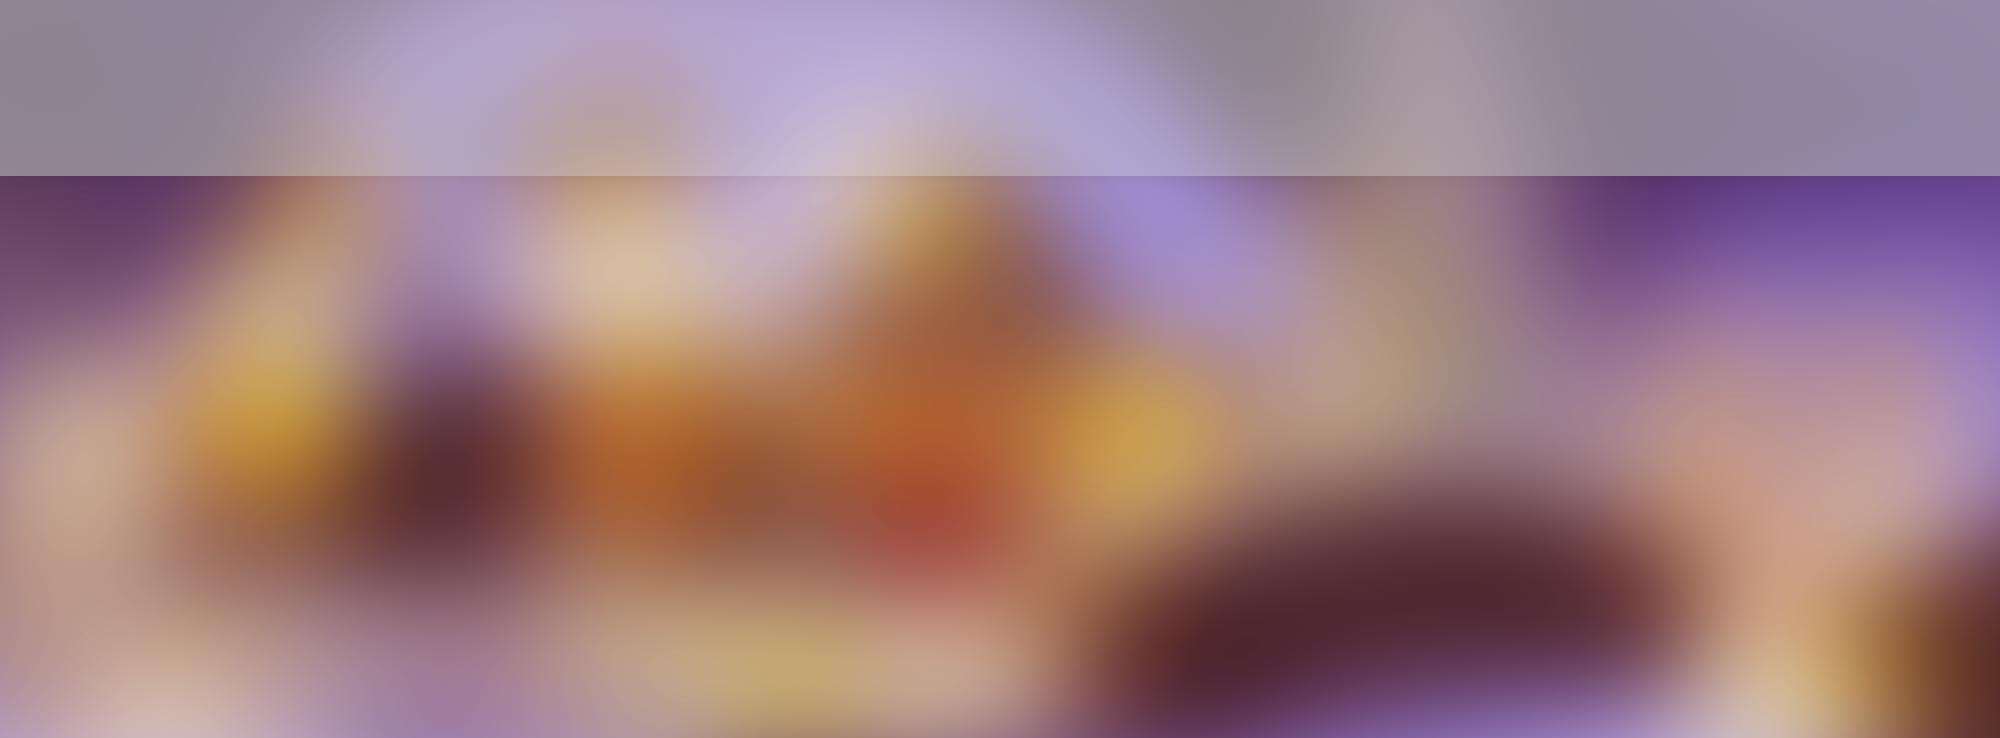
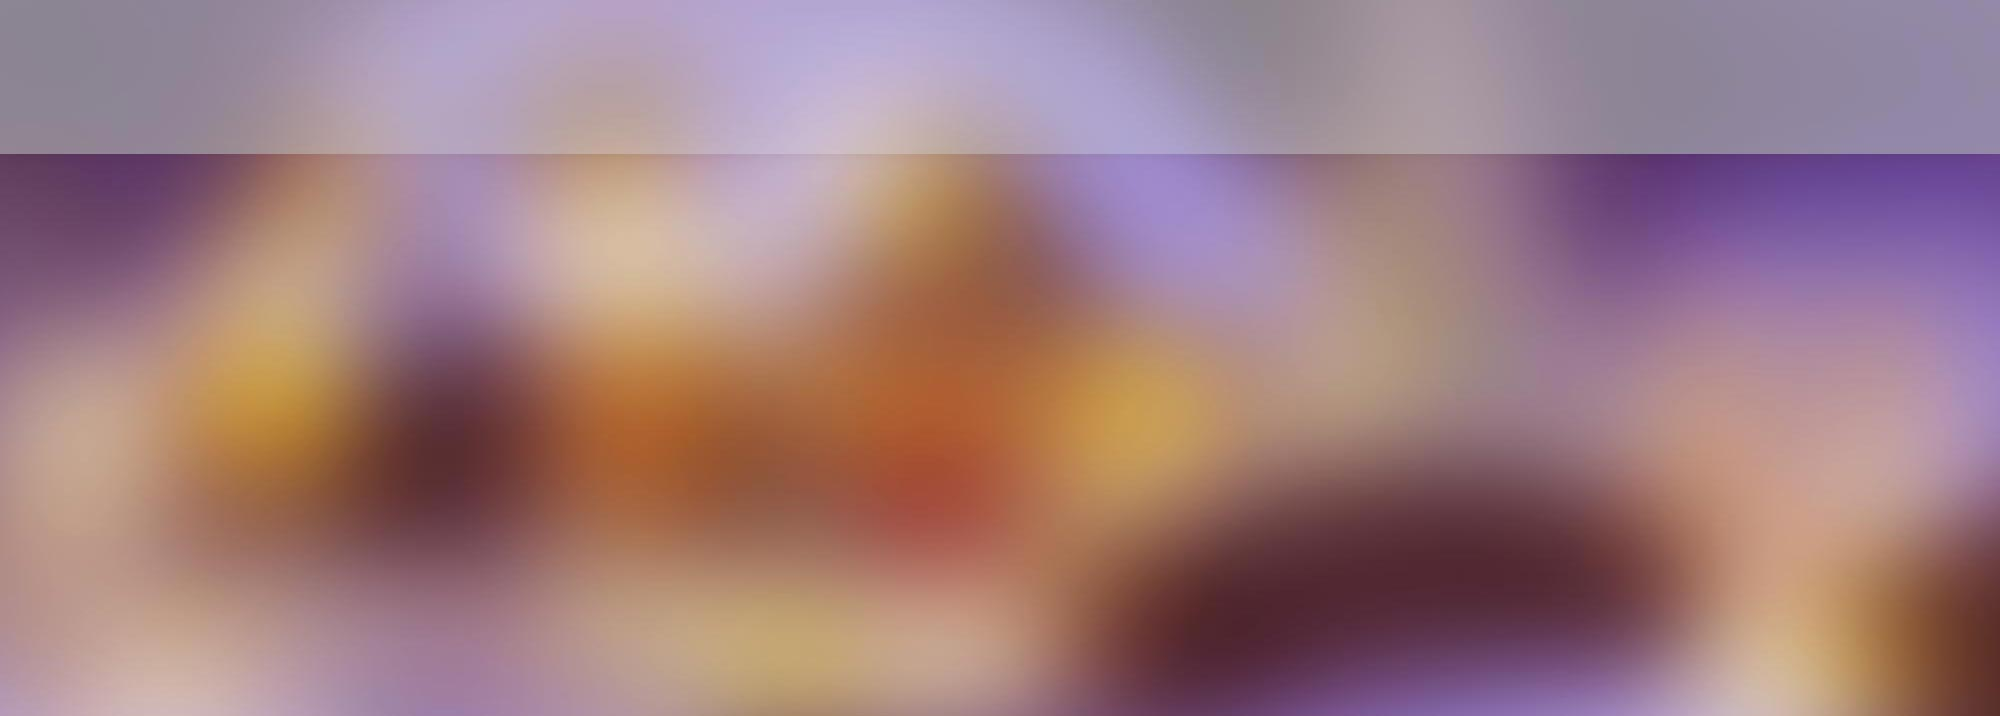
center blocks

Changed region(s): [[0.434, 0.2151, 1.0, 0.2458], [0.0, 0.2151, 0.341, 0.2458]]

diff --git a/index.html b/index.html
@@ -96,25 +96,26 @@
     </section>
 
     <!--т.к. фон будет разным для разных конкурсов нет смысла выносить его в цсс, чтобы не грузить 2 картинки сразу-->
-    <header class="main-header with-works" style="background: url('img/header-background.jpg') left top no-repeat;">
+    <!--класс with-works добавляем если есть работы высота бакграунда в таком случае 716 пикселей-->
+    <header class="main-header " style="background: url('img/header-background.jpg') left top no-repeat;">
         <div class="header-top-line center-wrapper clear">
             <a class="logo fl-left" href="">
                 <img src="img/logo.png" alt=""/>
             </a>
             <div class="content-wrapper fl-left">
-                <ul class="social-icons fl-right">
-                    <li><a href=""></a></li>
-                    <li><a href=""></a></li>
-                    <li><a href=""></a></li>
+                <ul class="social-icons list-reset fl-right">
+                    <li><a href="" class="facebook"></a></li>
+                    <li><a href="" class="vk"></a></li>
+                    <li><a href="" class="youtube"></a></li>
                 </ul>
                 <div class="text-wrapper">
                     Дзвоніть нам за ціма телефонами, або скористайтеся <a href="">зворотнім зв’язком</a>:
                 </div>
-                <div class="phone-wrapper">
-                    (096) <span>879-30-26</span>, (044) <span>234-75-38</span>
+                <div class="phone-wrapper robotoLight">
+                    (096) <span class="robotoBold">879-30-26</span><span class="robotoThin">,</span> (044) <span class="robotoBold">234-75-38</span>
                 </div>
-                <div class="menu-wrapper clear">
-                    <ul>
+                <div class="menu-wrapper">
+                    <ul class="list-reset">
                         <li><a href="">Про проект</a></li>
                         <li><a href="">Конкурсні роботи</a></li>
                         <li><a href="">Учасники</a></li>
@@ -130,19 +131,19 @@
             <div class="top-text">
                 тема сезону:
             </div>
-            <div class="conkurs-theme">
+            <div class="conkurs-theme robotoLight">
                 <div>«День Святого Миколая»</div>
                 <div>«Різдво Христове»</div>
             </div>
+            <div class="top-text">до закриття прийому робіт:</div>
             <div class="timer-text">
-                <div class="top-text">до закриття прийому робіт:</div>
                 <span class="number">3</span> місяці <span class="number">2</span> тижні <span class="number">5</span> днів
             </div>
             <a class="dark-button large" href="">
                 Прийняти участь
             </a>
         </div>
-        <section class="custom-works center-margin">
+        <section class="custom-works center-margin" style="display: none;">
             <div class="work-1">
                 <img src="img/temp/work1.jpg" alt=""/>
                 <div class="info-work">
@@ -235,12 +236,11 @@
                 </div>
             </div>
         </section>
-        <section class="about-block center-wrapper">
-            <img class="fl-left" src="img/boy.png" alt=""/>
+        <section class="about-block center-margin">
+            <img class="boy fl-left" src="img/boy.png" alt=""/>
             <p>
-                «Талант.Арт» — проект, який надає прекрасну можливість молодим художникам заявити про свій талант на всю Україну
+                «Талант.Арт» — проект, який надає прекрасну можливість молодим художникам заявити про свій талант на всю Україну <a href="">Дізнатися більше</a>
             </p>
-            <a href="">Дізнатися більше</a>
         </section>
     </header>
 </body>

diff --git a/scss/parts/_headerStyles.scss b/scss/parts/_headerStyles.scss
@@ -1,3 +1,147 @@
 .main-header{
-
+  position: relative;
+  .header-top-line{
+    color: #ffffff;
+    padding-top: 15px;
+    a{
+      color: #ffffff;
+    }
+    .content-wrapper{
+      padding-top: 6px;
+      width: 767px;
+    }
+    .phone-wrapper{
+      @include normal-font(32px, 30px);
+      margin: 7px 0 27px;
+    }
+    .menu-wrapper{
+      position: relative;
+      height: 50px;
+      &:before{
+        content: '';
+        left: 0;
+        position: absolute;
+        right: 0;
+        height: 1px;
+        top: 0;
+        background: #ffffff;
+        @include opacity(0.2);
+      }
+      ul{
+        text-align: justify;
+        &:after{
+          content: "";
+          display: inline-block;
+          width: 100%;
+        }
+        li{
+          display: inline-block;
+          height: 50px;
+          line-height: 50px;
+          a{
+            @extend .robotoBold;
+            @include normal-font(16px, 18px);
+            display: inline-block;
+            text-decoration: none;
+          }
+        }
+      }
+    }
+  }
+  .logo{
+    margin: 1px 75px 0 15px;
+  }
+  .social-icons{
+    margin-top: 24px;
+    li{
+      @extend .fl-left;
+      + li{
+        margin-left: 10px;
+      }
+      a{
+        display: block;
+        &.facebook{
+          @include sprite-image-sprite(facebook-header-ico);
+        }
+        &.vk{
+          @include sprite-image-sprite(vk-header-ico);
+        }
+        &.youtube{
+          @include sprite-image-sprite(youtube-header-btn);
+        }
+      }
+    }
+  }
+  .header-invite{
+    color: #ffffff;
+    padding: 30px 0 139px;
+    text-align: center;
+    .conkurs-theme{
+      margin: 15px 0 20px;
+      font-size: 48px;
+      line-height: 54px;
+    }
+    .timer-text{
+      font-size: 24px;
+      line-height: 24px;
+      margin-bottom: 24px;
+      @extend .robotoLight;
+      .number{
+        @extend .robotoBold;
+      }
+    }
+  }
+  .about-block{
+    margin-top: 52px;
+    @include sprite-image-sprite(about-background);
+    position: absolute;
+    z-index: 1;
+    left: 50%;
+    margin-left: -450px;
+    bottom: -100px;
+    .boy{
+      position: absolute;
+      left: 66px;
+      bottom: 25px;
+    }
+    p{
+      @extend .robotoLight;
+      font-size: 24px;
+      line-height: 27px;
+      margin: 0 101px 0 261px;
+      position: relative;
+      padding-top: 52px;
+      a{
+        color: #2892bb;
+        position: relative;
+        font-size: 12px;
+        font-family: Arial, "Helvetica Neue", Helvetica, sans-serif;
+        top: -3px;
+      }
+    }
+  }
+  &:after{
+    content: '';
+    position: absolute;
+    background: url("../img/after-header-bg.jpg");
+    height: 666px;
+    width: 885px;
+    z-index: 0;
+    margin-left: -50px;
+    left: 50%;
+  }
+  &.with-works{
+    .header-invite{
+      margin-bottom: 76px;
+    }
+    .about-block{
+      position: relative;
+      margin: 52px 0 0;
+      left: auto;
+      bottom: auto;
+    }
+    &:after{
+      top: 716px;
+    }
+  }
 }

diff --git a/scss/parts/_buttons.scss b/scss/parts/_buttons.scss
@@ -10,9 +10,14 @@
     background: url("../img/gradient-btn-small.png");
     @include border-radius(28px);
     @include box-sizing(border-box);
-    @include box-shadow(0 3px 7px 1px rgba(0, 0, 0, .75));
+    @include box-shadow(0 3px 7px 1px rgba(0, 0, 0, .3));
     &.large{
-        background: url("../img/gradient-btn.png");
+      background: url("../img/gradient-btn.png");
+      @extend .robotoBlack;
+      height: 50px;
+      line-height: 45px;
+      font-size: 24px;
+      padding: 0 25px;
     }
     &.medium{
         background: url("../img/gradient-btn-medium.png");

diff --git a/scss/main.scss b/scss/main.scss
@@ -3,7 +3,6 @@
 @import "customMixins";
 $sprite-image-sprite-dimensions: true;
 @import "sprite-image/*.png";
-@import "includes";
 
 a{
   text-decoration: underline;

diff --git a/scss/parts/_customWorks.scss b/scss/parts/_customWorks.scss
@@ -1,4 +1,5 @@
 .custom-works{
+    margin-top: -61px;
     width: 1300px;
     height: 400px;
     position: relative;
